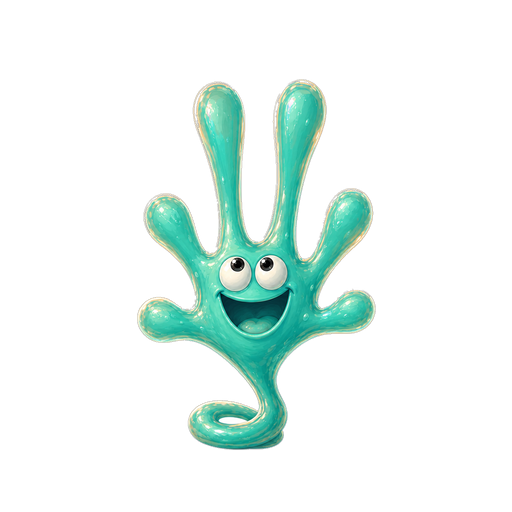
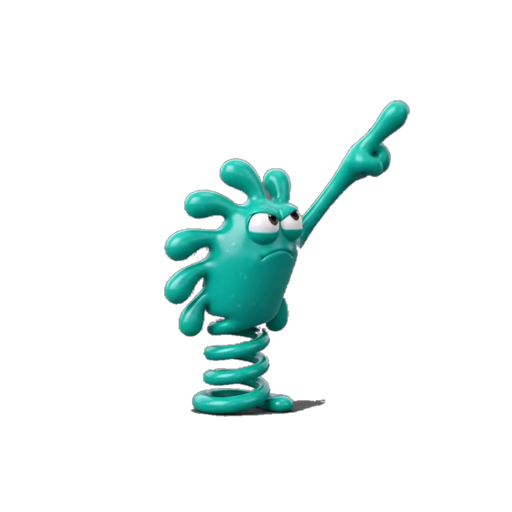
Swap hero animations to Makko ANIMATION type (Omni/GPT engine)
Per Tony: use Makko's Animation feature on the Omni (GPT/OpenAI) model, not
hand-stitched stills. Tried to force a flat painterly render (#3) but Omni always
renders 3D, so went with the 3D look (#1) for the much smoother motion.
Generated reach/swing/fly as 3s Omni clips off the pose-sheet reference, extracted
frames (ffmpeg 4fps -> 12), flood-keyed the studio bg (edge seeds + connected-
component speckle cleanup for the white swing bg), centroid-normalized to 512px
transparent frames. Smooth 12-frame loops replace the choppy keyframe sprites.

Changed region(s): [[0.25, 0.1562, 0.8125, 0.9062]]

diff --git a/asano.html b/asano.html
@@ -1604,7 +1604,7 @@ const ASANO_ANIM = { painterly:{}, pixel:{} };   // skin -> state -> frame array
 let ANIM_SCALE = 9.0, ANIM_YOFF = 0.42;          // painterly hero seating (size vs r, vertical anchor of the grab-hand at (X,Y))
 let ANIM_SCALE_PX = 5.6, ANIM_YOFF_PX = 0.42;    // pixel hero seating (its sprite fills more of the frame)
 (function(){
-  const SETS = { idle:{n:12,fps:14}, flying:{n:5,fps:13}, swinging:{n:6,fps:16}, reaching:{n:5,fps:14}, fall:{n:12,fps:16}, thwap:{n:8,fps:24} };
+  const SETS = { idle:{n:12,fps:14}, flying:{n:12,fps:13}, swinging:{n:12,fps:13}, reaching:{n:12,fps:13}, fall:{n:12,fps:16}, thwap:{n:8,fps:24} };
   const SKINS = { painterly:{dir:'assets/hero_anim/'}, pixel:{dir:'assets/hero_anim_pixel/', n:1, fps:1} };  // pixel = 1 crisp frame per state
   for(const sk in SKINS){ const skin=SKINS[sk]; for(const k in SETS){ const s=SETS[k], n=skin.n||s.n, arr=[]; arr.fps=skin.fps||s.fps;
     for(let i=0;i<n;i++){ const im=new Image(); im.src=skin.dir+k+'/f'+String(i).padStart(2,'0')+'.png'; arr.push(im); }
@@ -1637,8 +1637,8 @@ function drawHeroAnim(g, X, Y, r){
   if(!_animReady(set)) return false;                               // nothing loaded yet -> caller uses static hero
   const f = set[Math.floor(_heroAnimT*set.fps) % set.length];
   const bob = (px && key==='idle') ? Math.sin(_heroAnimT*4.5)*0.03 : 0;   // tiny life for the 1-frame pixel idle
-  const bigNew = (key==='flying'||key==='swinging'||key==='reaching');   // Makko frames have more padding -> scale up to match
-  const Sz = r*(px?ANIM_SCALE_PX:ANIM_SCALE)*(bigNew?1.4:1);
+  const bigNew = (key==='flying'||key==='swinging'||key==='reaching');   // Makko/Omni frames have more padding -> scale up to match
+  const Sz = r*(px?ANIM_SCALE_PX:ANIM_SCALE)*(bigNew?1.7:1);
   const yoff = (px?ANIM_YOFF_PX:(bigNew?0.5:ANIM_YOFF)) + bob;
   const sm = g.imageSmoothingEnabled; if(px) g.imageSmoothingEnabled = false;   // crisp nearest-neighbour pixels
   g.drawImage(f, X-Sz/2, Y-Sz*yoff, Sz, Sz);
